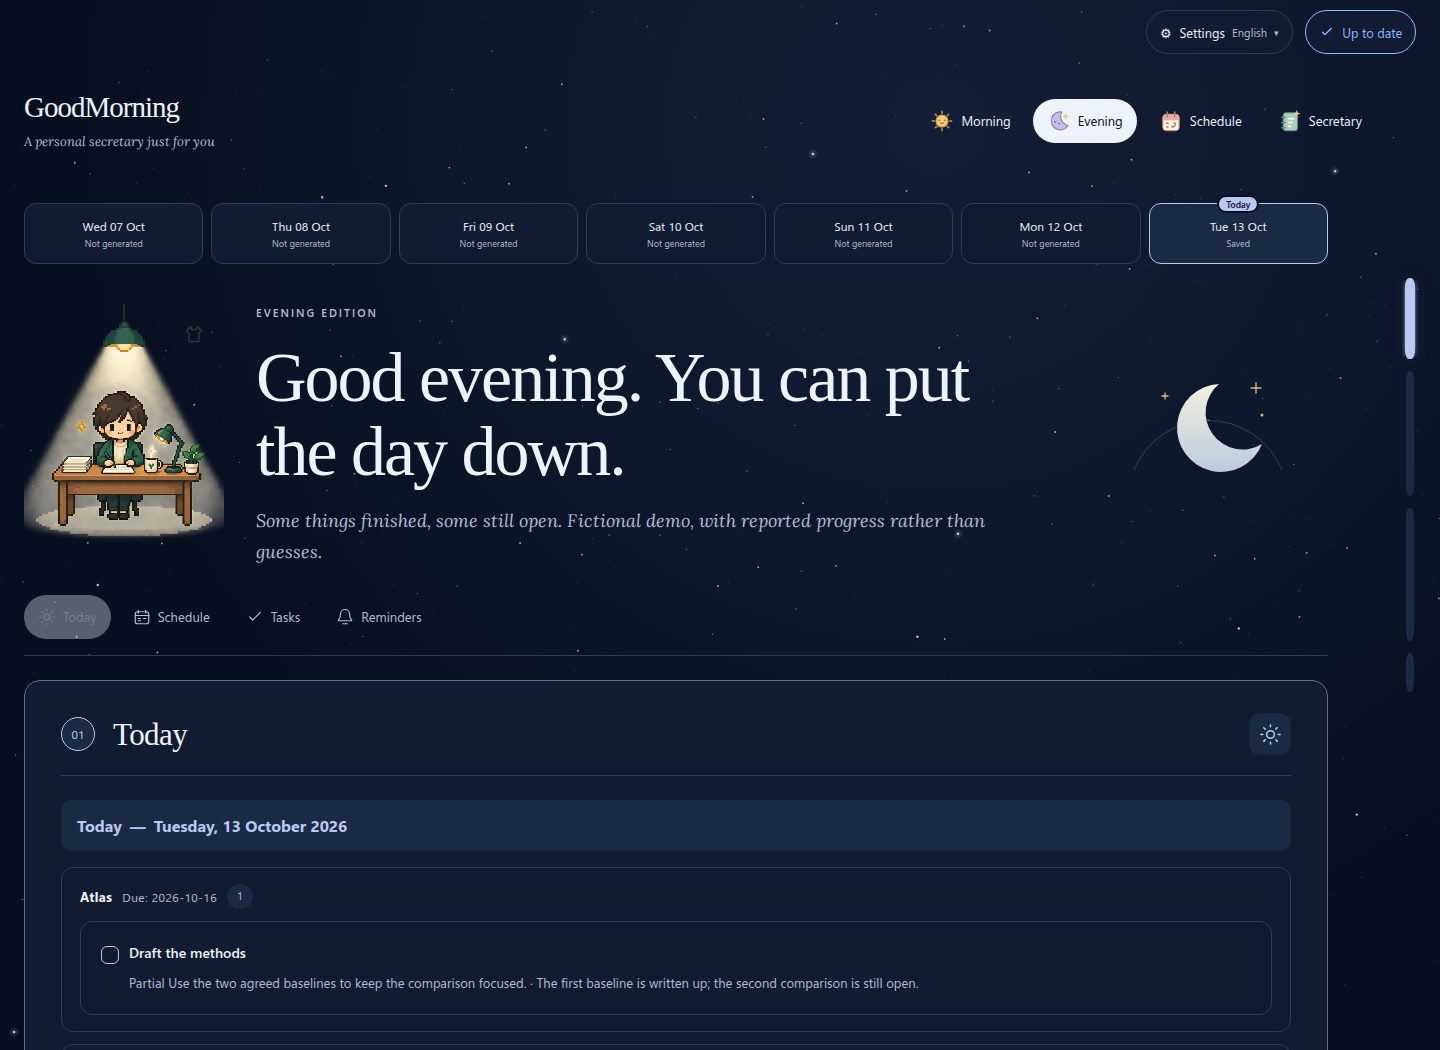
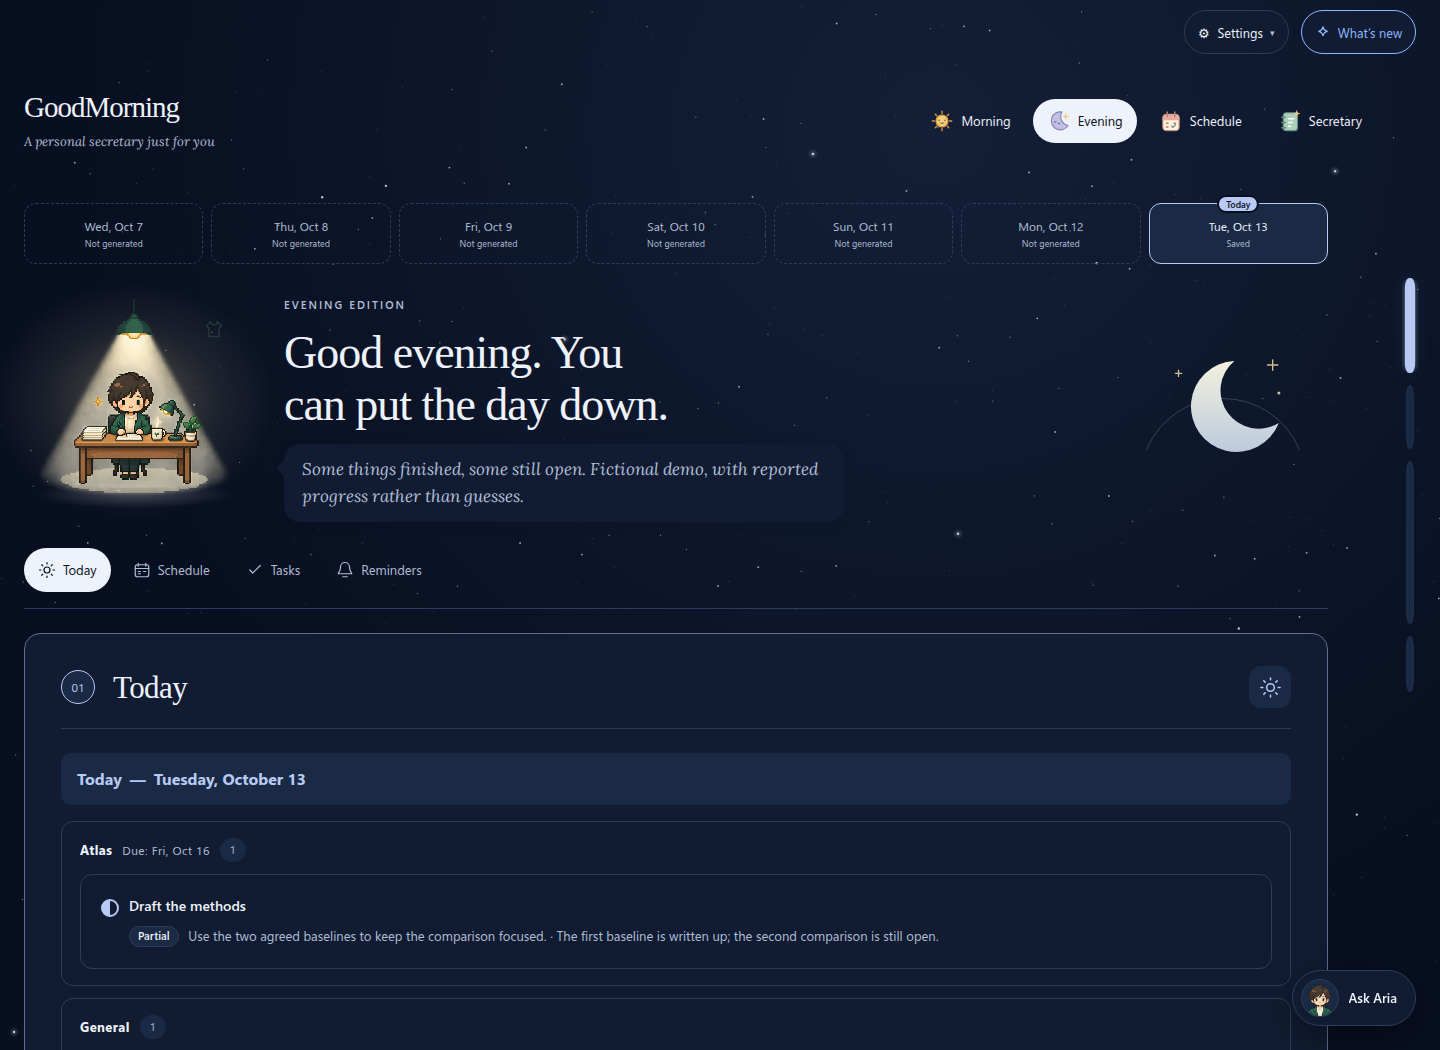
Refresh README for Pixel style, new schemes, errands, quick chat and current screenshots

diff --git a/tests/browser/readme_demo.py b/tests/browser/readme_demo.py
@@ -173,8 +173,8 @@ def capture(app, output):
             page.on('response', lambda response: errors.append(f'{response.status} {urlsplit(response.url).path}')
                     if response.status >= 400 else None)
 
-            def open_page(path, day='first-light'):
-                write_colors(app.runtime, {'day': day, 'night': 'starry'})
+            def open_page(path, day='first-light', night='starry', style='soft'):
+                write_colors(app.runtime, {'style': style, 'day': day, 'night': night})
                 page.goto(address + path)
                 page.evaluate('document.fonts.ready')
                 page.evaluate('''() => Promise.all(Array.from(document.images)
@@ -223,6 +223,12 @@ def capture(app, output):
             open_page('/gm.html', 'morning-sky')
             expect(page.locator('html')).to_have_attribute('data-day-scheme', 'morning-sky')
             shot('morning-sky')
+            open_page('/gm.html', 'grass-block', style='pixel')
+            expect(page.locator('html')).to_have_attribute('data-style', 'pixel')
+            shot('pixel-grass-block')
+            open_page('/gn.html', night='picnic', style='pixel')
+            expect(page.locator('html')).to_have_attribute('data-night-scheme', 'picnic')
+            shot('pixel-picnic')
             page.set_viewport_size({'width': 390, 'height': 844})
             open_page('/chat?id=' + CHAT, 'warm')
             expect(page.locator('#chat-compose')).to_be_visible()

diff --git a/README.md b/README.md
@@ -21,52 +21,62 @@
   <a href="https://github.com/S-Sebb/GoodMorning/issues">Feedback</a>
 </p>
 
-![Morning briefing in the First Light theme, with a mountain valley, personal desk, daily archive, and weather cards](assets/readme/morning.png)
+![Morning briefing in the First Light theme, with a mountain valley, the secretary at a desk, a sun rising behind a cloud, a daily archive, and weather cards](assets/readme/morning.png)
 
 GoodMorning brings your weather, news, appointments, tasks, and ideas into one
 quiet place. Start with a morning briefing, keep your saved plans close throughout
 the week, and close the day with an honest review of what actually happened.
 
-Between briefings, your secretary helps you think, remember a to-do, or catch an
-idea before it disappears. Built around **OpenCode and OpenChamber**, GoodMorning
-combines a personal AI workflow with a browser interface you can host yourself.
-Four tabs—**Morning, Evening, Schedule, and Secretary**—keep each part of the day
-within reach.
+Between briefings, your secretary helps you think, remember a to-do, catch an
+idea before it disappears, or run a small errand for you. Built around
+**OpenCode and OpenChamber**, GoodMorning combines a personal AI workflow with a
+browser interface you can host yourself. Four tabs—**Morning, Evening, Schedule,
+and Secretary**—keep each part of the day within reach, and a floating **Ask**
+button opens a quick chat without leaving the page.
 
 ## A day with GoodMorning
 
 **Morning · Find your bearings.** Weather, News, Schedule, Tasks, then Reminders:
 a familiar order for local conditions and air quality, yesterday's source-linked
-stories, upcoming appointments, saved actions, and decisions that need you.
+stories, today's appointments, saved actions, and decisions that need you.
 Tasks are grouped by workday and project, with clear action titles and essential
-work kept distinct from optional possibilities. Sections appear as they are
+work kept distinct from optional possibilities. Habits show up on the days they
+are due, and errand results appear as their own cards. Sections appear as they are
 prepared, so you can start reading before the whole briefing is ready.
 
 **Evening · Put the day down.** Report completed work, partial progress, and
-blockers, then look at tomorrow's appointments and agreed tasks. Unfinished work
-stays visible without silently moving to a new date. Completion comes from you,
-not an AI guess.
+blockers, then look at tomorrow's appointments and agreed tasks, worded around
+what to get ready tonight. Deadlines that have arrived get a gentle check, and
+each project has an optional progress box. Unfinished work stays visible without
+silently moving to a new date. Completion comes from you, not an AI guess.
 
-**Schedule · See the shape of your week.** A live Monday–Sunday view places
-appointments above dated to-dos, with today highlighted and three weeks of
-navigation on either side. Recurring work, reported progress, and confirmed
-appointments with a time still to be decided each have their place. Saved changes
-refresh without another AI call; this is a view of your records, not a generated
-weekly plan. See the [schedule guide](docs/weekly-schedule.md).
+**Schedule · See the shape of your week.** Switch between a Week view, with
+appointments above dated to-dos, and a Day view with every event detail and
+what's on now or next. Today is highlighted, with three weeks of navigation on
+either side. Deadlines are marked on their due day, habit days are shown, and
+recurring work, reported progress, and appointments with a time still to be
+decided each have their place. Saved changes refresh without another AI call;
+this is a view of your records, not a generated weekly plan. See the
+[schedule guide](docs/weekly-schedule.md).
 
 **Secretary · Keep a little space to think.** One conversation does it all:
-save a to-do, jot down an idea, plan your week, or change a preference. New
-users see only Initialize until setup is complete; afterward, Secretary is the
-single place to talk. Each reply says whether something was saved as a to-do or
-an idea, and when it's unclear whether you want something saved or done, the
-secretary asks first. File attachments, pasted images, Markdown replies, and saved
-conversation history keep the details close. Questions, accepted answers, and
-confirmed changes have their own clear, softly highlighted cards.
+save a to-do, jot down an idea, set up an errand, plan your week, or change a
+preference. A **What can I ask?** guide and starter buttons show what your
+secretary can do; starters only fill in the message box and never send. Each
+reply says whether something was saved as a to-do or an idea, and when it's
+unclear whether you want something saved or done, the secretary asks first.
+File attachments, pasted images, Markdown replies, and saved conversation history
+keep the details close; older To-do and Eureka chats stay in your history.
+
+**Ask from anywhere.** Morning, Evening, and Schedule each have a floating quick
+chat. Every reminder, and every pending calendar change on Schedule, has a
+**Review with your secretary** button that opens it with a starter line, and
+nothing sends until you do.
 
 <table>
   <tr>
     <td width="50%" valign="top"><img src="assets/readme/evening.png" alt="Evening briefing in the Starry theme, showing a review of reported progress" /></td>
-    <td width="50%" valign="top"><img src="assets/readme/secretary.png" alt="Secretary conversation with Aria in the Warm theme, with saved task and idea cards and a highlighted question and answer" /></td>
+    <td width="50%" valign="top"><img src="assets/readme/secretary.png" alt="Secretary conversation with Aria in the Warm theme, with a What can I ask? button, saved task and idea cards, and a highlighted question" /></td>
   </tr>
   <tr>
     <td align="center"><em>A clear ending to the day.</em></td>
@@ -117,22 +127,42 @@ invent a schedule.
 
 ## A little atmosphere
 
-Keep the same quiet workspace, with a different view outside. Morning Sky brings
-clouds and birds to daytime; Starry gives the evening a quieter sky. The phone
-layouts keep reading and the message box within reach.
+Keep the same quiet workspace, with a different view outside. In
+**Settings → Appearance**, picture cards let you choose three things separately,
+and each choice is saved to your account:
+
+- **Style** shapes the components. **Soft** is rounded and calm; **Pixel** brings
+  square frames, blocky buttons, and pixel headings, and each scheme adds its
+  own touches, like Grass Block's stone buttons and hotbar week. Body text stays
+  in an easy-to-read font.
+- **Day color scheme:** Classic, Warm, Morning Sky, First Light, Grass Block, or Picnic.
+- **Night color scheme:** Classic, Starry, City Lights, Midnight Violet, Grass Block, or Picnic.
+
+Every style works with every scheme. Clouds and birds, a mountain valley, stepped
+grass-block hills that turn to dirt and stone as you scroll, a gingham picnic
+blanket, a twinkling night sky, or a harbor glowing with city lights bring a
+little atmosphere without third-party image or font requests.
 
 <table>
   <tr>
-    <td width="50%" valign="top"><a href="assets/readme/morning-sky.png"><img src="assets/readme/morning-sky.png" alt="Morning Sky theme with photographic clouds and birds behind the morning briefing" /></a></td>
-    <td width="50%" valign="top"><a href="assets/readme/evening.png"><img src="assets/readme/evening.png" alt="Starry theme with a dark sky, scattered stars, and a crescent moon behind the evening briefing" /></a></td>
+    <td width="50%" valign="top"><a href="assets/readme/morning-sky.png"><img src="assets/readme/morning-sky.png" alt="Morning Sky theme in Soft style with clouds and birds behind the morning briefing" /></a></td>
+    <td width="50%" valign="top"><a href="assets/readme/evening.png"><img src="assets/readme/evening.png" alt="Starry theme in Soft style with a dark sky, scattered stars, and a crescent moon behind the evening briefing" /></a></td>
   </tr>
   <tr>
-    <td align="center"><strong>Morning Sky.</strong><br /><em>A little cloud, a little breathing room.</em></td>
-    <td align="center"><strong>Starry.</strong><br /><em>A quieter sky for the end of the day.</em></td>
+    <td align="center"><strong>Morning Sky · Soft.</strong><br /><em>A little cloud, a little breathing room.</em></td>
+    <td align="center"><strong>Starry · Soft.</strong><br /><em>A quieter sky for the end of the day.</em></td>
+  </tr>
+  <tr>
+    <td width="50%" valign="top"><a href="assets/readme/pixel-grass-block.png"><img src="assets/readme/pixel-grass-block.png" alt="Grass Block theme in Pixel style, with grass-block hills, oak trees, a square sun, stone buttons, and pixel headings" /></a></td>
+    <td width="50%" valign="top"><a href="assets/readme/pixel-picnic.png"><img src="assets/readme/pixel-picnic.png" alt="Picnic night theme in Pixel style, with a plum gingham background, sparkles, a pixel crescent moon, and wooden frames" /></a></td>
+  </tr>
+  <tr>
+    <td align="center"><strong>Grass Block · Pixel.</strong><br /><em>A blocky morning, still easy to read.</em></td>
+    <td align="center"><strong>Picnic · Pixel.</strong><br /><em>A cozy blanket under the stars.</em></td>
   </tr>
   <tr>
     <td align="center" valign="top"><a href="assets/readme/morning-mobile.png"><img src="assets/readme/morning-mobile.png" width="240" alt="Phone-sized Morning Sky briefing with compact date navigation and a Sections button" /></a></td>
-    <td align="center" valign="top"><a href="assets/readme/secretary-mobile.png"><img src="assets/readme/secretary-mobile.png" width="240" alt="Phone-sized secretary conversation with task and idea cards and the message box visible at the bottom" /></a></td>
+    <td align="center" valign="top"><a href="assets/readme/secretary-mobile.png"><img src="assets/readme/secretary-mobile.png" width="240" alt="Phone-sized secretary conversation with the message box visible at the bottom" /></a></td>
   </tr>
   <tr>
     <td align="center"><em>Your morning, on a smaller screen.</em></td>
@@ -148,36 +178,52 @@ layouts keep reading and the message box within reach.
   belong in Tasks; possibilities stay ideas until you choose to adopt them.
   A deadline does not silently reserve a workday, and an empty calendar does not
   mean you are free.
+- **The right kind of item.** Besides to-dos and ideas, your secretary can save
+  heads-ups that never ask to be ticked off, reference notes for moments it
+  can't see (like when something runs out), and follow-ups such as "every day
+  until I've bought it" that stop with one tick. You choose how many days ahead
+  a deadline, birthday, or appointment is mentioned, separately for mornings
+  and evenings.
+- **Errands with a clear answer.** Ask your secretary to check something for you,
+  like a price each morning. It tries the errand once while setting it up, then
+  tells you only when the result is something you asked to hear. When a check
+  fails, the morning briefing says what was tried and why.
+- **Worded once, read the same every day.** When an item is saved, your secretary
+  decides how it reads in the morning briefing, the evening briefing, and the
+  Schedule tab. You can ask to change one place without changing the others.
 - **Remember the rhythm, not a growing backlog.** Save agreed weekly, every-N-day,
   or specific-date task rules, with confirmed exceptions and supported conditions.
-  Completion can be recorded on the day it actually happened without shifting
-  the original recurring plan. These reminders appear in your briefings; they
-  are not an unattended notification service.
+  Weekly classes without a confirmed time show on every date and become calendar
+  events in one step once the time is known. Completion can be recorded on the
+  day it actually happened without shifting the original recurring plan. These
+  reminders appear in your briefings; they are not an unattended notification
+  service.
 - **A useful reminder has a reason.** Due reviews, updated or cancelled calendar
   entries, and unresolved decisions stay separate from ordinary work. Pending
   calendar reviews name overlapping appointments so you know what needs attention.
-- **A briefing presents your plans; it does not make them.** Generating or
-  regenerating a briefing does not create tasks, assign dates, or mark work done.
-  Ambiguous scheduling is clarified before it is saved. Calendar imports are
-  reviewed before becoming approved plans, and project writes require authorization.
+- **A briefing presents your plans; it does not make them.** Mornings focus on
+  today and evenings on tomorrow. Generating or regenerating a briefing does not
+  create tasks, assign dates, or mark work done. Ambiguous scheduling is clarified
+  before it is saved, and a bare weekday like "by Friday" means its next
+  occurrence. Calendar imports are reviewed before becoming approved plans, and
+  project writes require authorization.
 
 The [item and timing guide](docs/item-taxonomy.md) explains these boundaries in detail.
 
 ## Thoughtful by design
 
-- **Personal, not generic.** Choose your secretary's name, tone, and avatar.
-  English and Simplified Chinese are available throughout the website. Changing
-  the interface language does not rewrite your saved records or earlier replies.
-- **A view that feels like yours.** Choose Classic, Warm, Morning Sky, or First
-  Light for daytime, and Classic, Starry, City Lights, or Midnight Violet for
-  nighttime, plus the Grass Block and Picnic scenes. Pick the Soft or Pixel
-  style to give any of them rounded or square pixel frames and headings. Day and night choices
-  are independent and saved per account. Clouds and birds, a mountain valley, a
-  twinkling night sky, or a harbor glowing with city lights bring a little
-  atmosphere without third-party image or font requests.
+- **Personal, not generic.** Choose your secretary's name, tone, and avatar, and
+  tell it what to call you; briefing greetings use that name. The built-in
+  secretaries have a daytime and a night scene, a head-and-shoulders portrait
+  for chat, and come gently alive with a blink, swaying coffee steam, and a few
+  pen strokes. Custom avatars take separate day, night, and profile pictures.
+- **Two languages.** English and Simplified Chinese are available throughout the
+  website, including a crisp pixel font for Chinese in Pixel style. Changing the
+  interface language does not rewrite your saved records or earlier replies.
 - **Comfortable on a phone, too.** Responsive layouts, a growing message box,
-  click-to-enlarge images, section navigation, reading progress, and reduced-motion
-  support keep reading and conversation at the center.
+  floating buttons that slide away while you read, click-to-enlarge images,
+  section tabs, reading progress, and reduced-motion support keep reading and
+  conversation at the center.
 - **Continuity without clutter.** Saved briefings, a seven-day archive selector,
   persistent tasks and ideas, and previous conversations keep useful context close.
   The seven-day selector is a browsing window, not a record-deletion policy.
@@ -187,9 +233,10 @@ The [item and timing guide](docs/item-taxonomy.md) explains these boundaries in 
   steer the secretary while it works. Pending questions and permissions remain
   available until you answer them.
 - **Language-matched models.** English requests automatically use Muse Spark 1.3
-  Contributor XHigh; Chinese requests use DeepSeek V4.1 Flash High (paid tier). No model selector
-  is needed, and running requests keep their original model. In-app release notes explain
-  updates, and an open page never reloads itself over an unsent draft.
+  Contributor XHigh; Chinese requests use DeepSeek V4.1 Flash High (paid tier).
+  No model selector is needed, and running requests keep their original model.
+  **What's new** explains each update, and an open page never reloads itself over
+  an unsent draft.
 - **Your own space.** Personal records stay outside the public source. The hosted
   deployment supports authenticated HTTPS, encrypted storage, and separate agent
   accounts. Private messages are not saved in browser local storage.
@@ -208,7 +255,7 @@ GoodMorning is currently **beta**. It runs on **Linux with Python 3.14+** and an
 2. **Meet your secretary.** Open Initialize in the browser or ask the installed
    skill for setup. [Guided initialization](docs/initialization.md) saves your
    confirmed preferences and permissions; optional integrations can remain pending.
-    Ask Secretary later to review settings without resetting your records.
+   Ask Secretary later to review settings without resetting your records.
 3. **Begin when you are ready.** Prepare a briefing from Morning or Evening,
    check Schedule, or start a conversation in Secretary. With the installed skill,
    natural-language requests work too: ask for a morning briefing, an evening
@@ -236,8 +283,9 @@ Ideas, feedback, and focused improvements are welcome in
 ## License
 
 GoodMorning is licensed under the [MIT License](LICENSE).
-Bundled [relay code](vendor/openchamber-relay/LICENSE) and
-[fonts](assets/web/fonts/OFL.txt) retain their respective license notices.
+Bundled [relay code](vendor/openchamber-relay/LICENSE) and fonts
+([text fonts](assets/web/fonts/OFL.txt), [pixel fonts](assets/web/fonts/pixel-fonts-OFL.txt))
+retain their respective license notices.
 Theme imagery has its own [asset credits](docs/theme-asset-credits.md).
 
 ---
